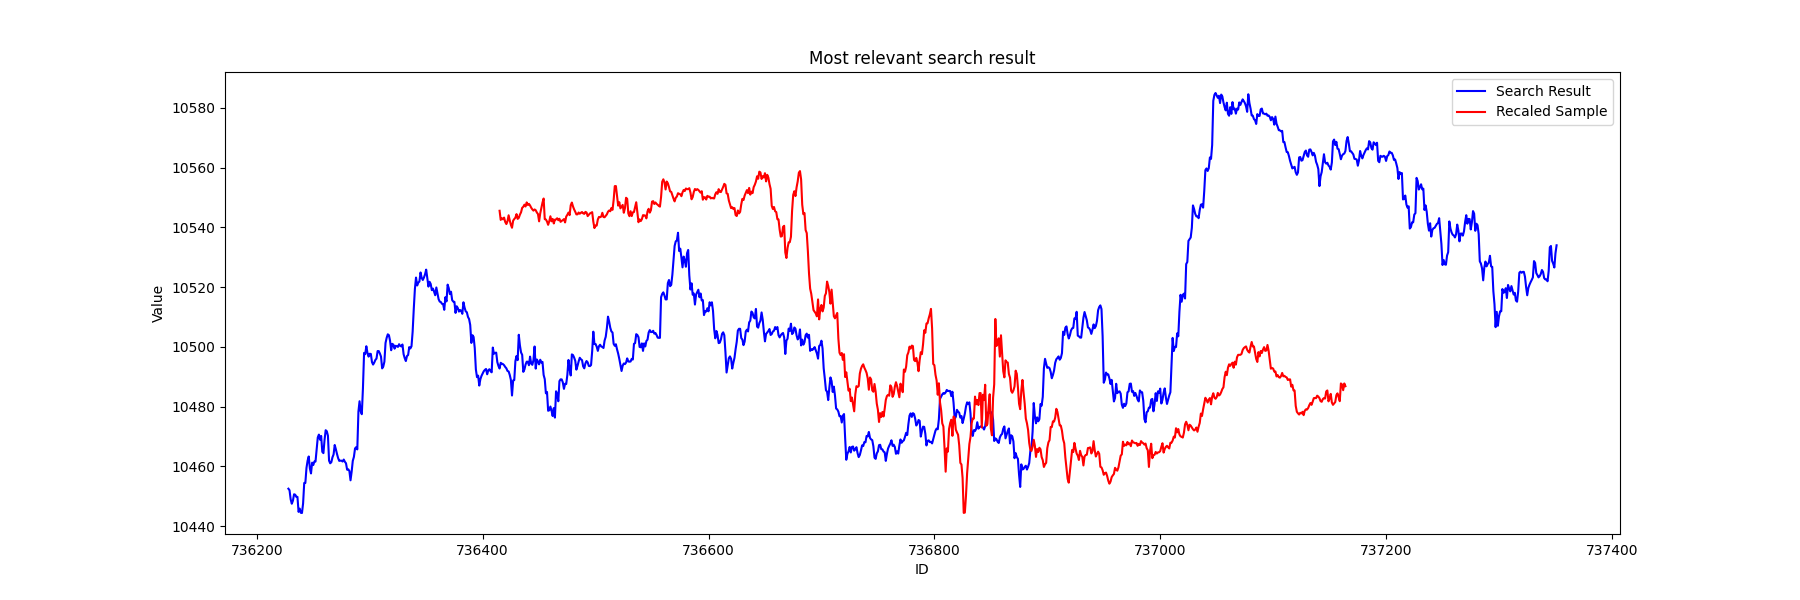
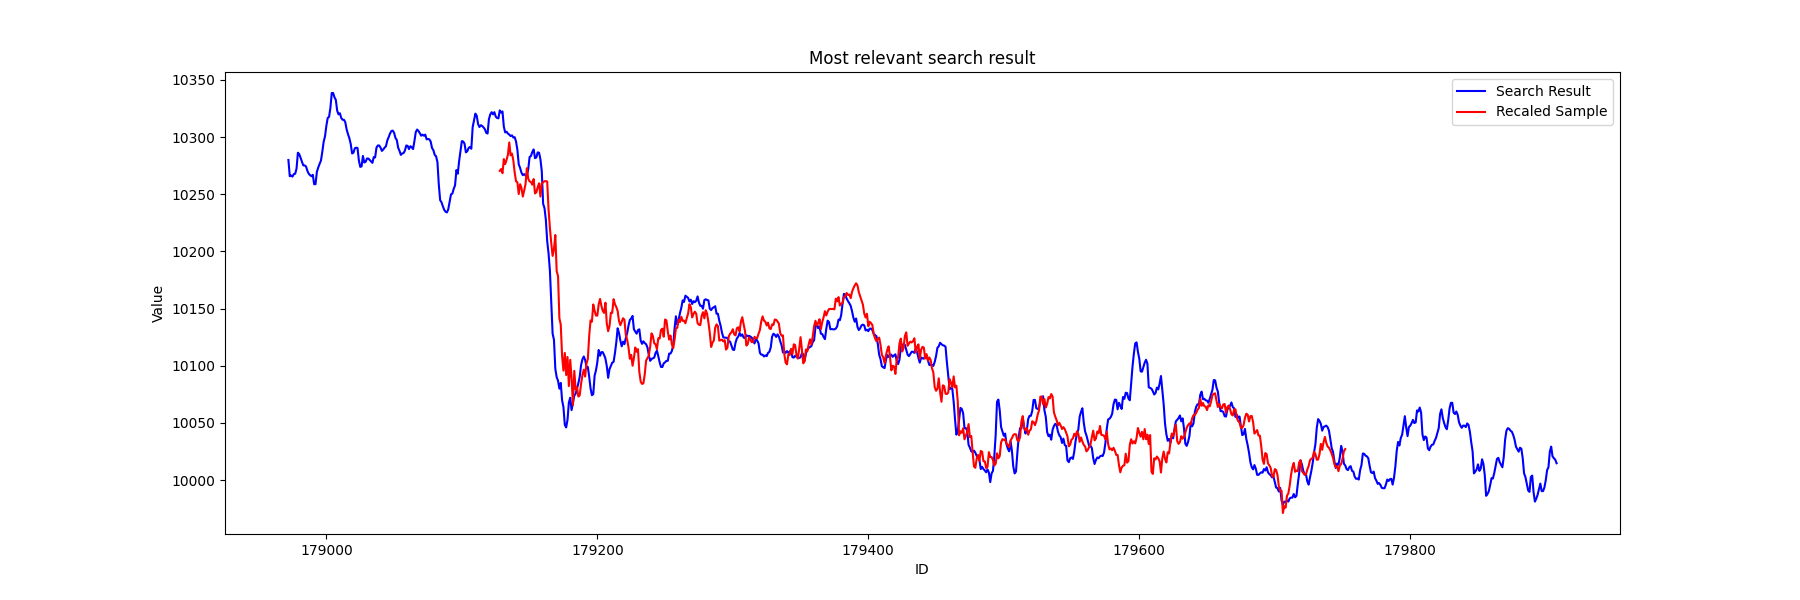
feat: rhymes 80%

diff --git a/interface.py b/interface.py
@@ -176,6 +176,43 @@ def process_rhymes(dataset_df, sample_value, id, distance, window, output_path):
     plt.close()
     return text, output_path
 
+
+def process_rhymes_80(dataset_df, sample_value, id, distance, window, output_path):
+    embedding = dataset_df['VALUE'][id:id+window].tolist()
+    embedding_mean = np.mean(embedding)
+    embedding_norm = np.linalg.norm(embedding - embedding_mean)
+
+    sample = resample_non_drop(sample_value, int(5/4*window))
+    sample = sample - np.mean(sample[:window])
+
+    scaled_sample = sample / \
+        np.linalg.norm(sample[:window])*embedding_norm + embedding_mean
+
+    expand_window = int(window * 1 / 4)
+    start = max(0, id - expand_window)
+    end = min(len(dataset_df['VALUE']), id + int(5/4*window) + expand_window)
+
+    plt.figure(figsize=(18, 6))
+    plt.plot(np.arange(start, end),
+             dataset_df['VALUE'][start:end], color='blue', label='Search Result')
+    plt.plot(np.arange(id, id+window),
+             scaled_sample[:window], color='red', label='Recaled Sample')
+    plt.plot(np.arange(id+window, id+int(window * 5 / 4)),
+             scaled_sample[window:int(window * 5 / 4)], color='green', label='Recaled Sample')
+    plt.title("Most relevant search result")
+    plt.xlabel("ID")
+    plt.ylabel("Value")
+    plt.legend()
+
+    text = "Distance score: " + str(distance) + "\nStart Datetime: " + str(
+        dataset_df.index[id]) + "\nEnd Datetime: " + str(dataset_df.index[id+window])
+
+    # Saving to a temporary file and return its path
+    plt.savefig(output_path)
+    plt.close()
+    return text, output_path
+
+
 def plot_from_xlsx(file_path):
     sample_df = pd.read_excel(file_path.name, engine='openpyxl')
     sample_value = sample_df[sample_df.columns[1]].tolist()
@@ -373,6 +410,48 @@ def plot_from_xlsx_rhymes(file_path):
     return text0, path0, text1, path1, text2, path2
 
 
+def plot_from_xlsx_rhymes_80(file_path):
+    sample_df = pd.read_excel(file_path.name, engine='openpyxl')
+    sample_value = sample_df[sample_df.columns[1]].tolist()
+
+    clean_list(sample_value)
+    difference_list = difference_process(sample_value, window=1250, sigma=8)
+
+    results = collection_rhymes.query(
+        query_embeddings=[difference_list[:999]],
+        n_results=3
+    )
+
+    text0, path0 = process_rhymes_80(
+        dataset_df=dataset_df,
+        sample_value=sample_value,
+        id=int(results['metadatas'][0][0]['ID']),
+        distance=results['distances'][0][0],
+        window=results['metadatas'][0][0]['window'],
+        output_path='image/my_figure0_rhymes_80.png'
+    )
+
+    text1, path1 = process_rhymes_80(
+        dataset_df=dataset_df,
+        sample_value=sample_value,
+        id=int(results['metadatas'][0][1]['ID']),
+        distance=results['distances'][0][1],
+        window=results['metadatas'][0][1]['window'],
+        output_path='image/my_figure1_rhymes_80.png'
+    )
+
+    text2, path2 = process_rhymes_80(
+        dataset_df=dataset_df,
+        sample_value=sample_value,
+        id=int(results['metadatas'][0][2]['ID']),
+        distance=results['distances'][0][2],
+        window=results['metadatas'][0][2]['window'],
+        output_path='image/my_figure2_rhymes_80.png'
+    )
+
+    return text0, path0, text1, path1, text2, path2
+
+
 with gr.Blocks() as demo:
 
     with gr.Tab("Full Search"):
@@ -430,6 +509,20 @@ with gr.Blocks() as demo:
 
         iface_rhymes = gr.Interface(fn=plot_from_xlsx_rhymes, inputs=file_input_rhymes, outputs=[
                              text_field0_rhymes, image_field0_rhymes, text_field1_rhymes, image_field1_rhymes, text_field2_rhymes, image_field2_rhymes])
+
+    with gr.Tab("rhymes 80%"):
+        file_input_rhymes_80 = gr.File(type="filepath")
+
+        text_field0_rhymes_80 = gr.Textbox(label="Result0")
+        text_field1_rhymes_80 = gr.Textbox(label="Result1")
+        text_field2_rhymes_80 = gr.Textbox(label="Result2")
+
+        image_field0_rhymes_80 = gr.Image(label="Result0")
+        image_field1_rhymes_80 = gr.Image(label="Result1")
+        image_field2_rhymes_80 = gr.Image(label="Result2")
+
+        iface_rhymes_80 = gr.Interface(fn=plot_from_xlsx_rhymes_80, inputs=file_input_rhymes_80, outputs=[
+                                text_field0_rhymes_80, image_field0_rhymes_80, text_field1_rhymes_80, image_field1_rhymes_80, text_field2_rhymes_80, image_field2_rhymes_80])
 
 
 if __name__ == "__main__":
